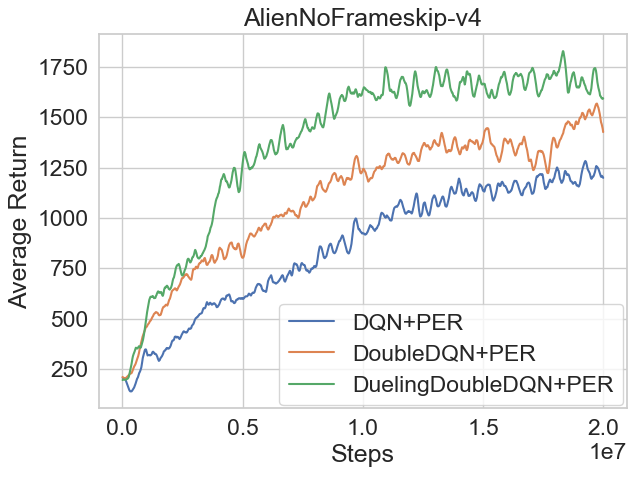
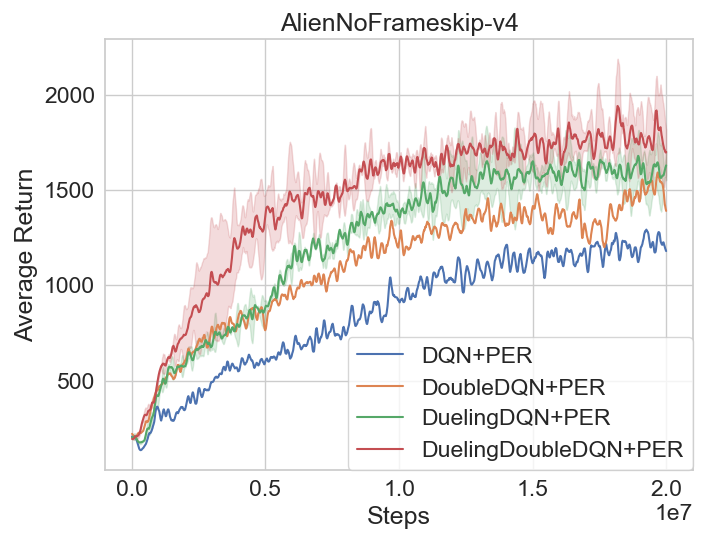
update readme for adding Atari experiment results

diff --git a/README.md b/README.md
@@ -62,7 +62,8 @@ python spinupUtils/plot.py \
 ```
 
 ### Performance on Atari
-<img src="images/Atari_result.png" width="1000px" align="middle"/>
+<img src="images/Atari_result_0.png" width="1000px" align="middle"/>
+<center><img src="images/Atari_result_1.png" width="440px" align="middle"/><center>
 <br>
 
 ### Citation
